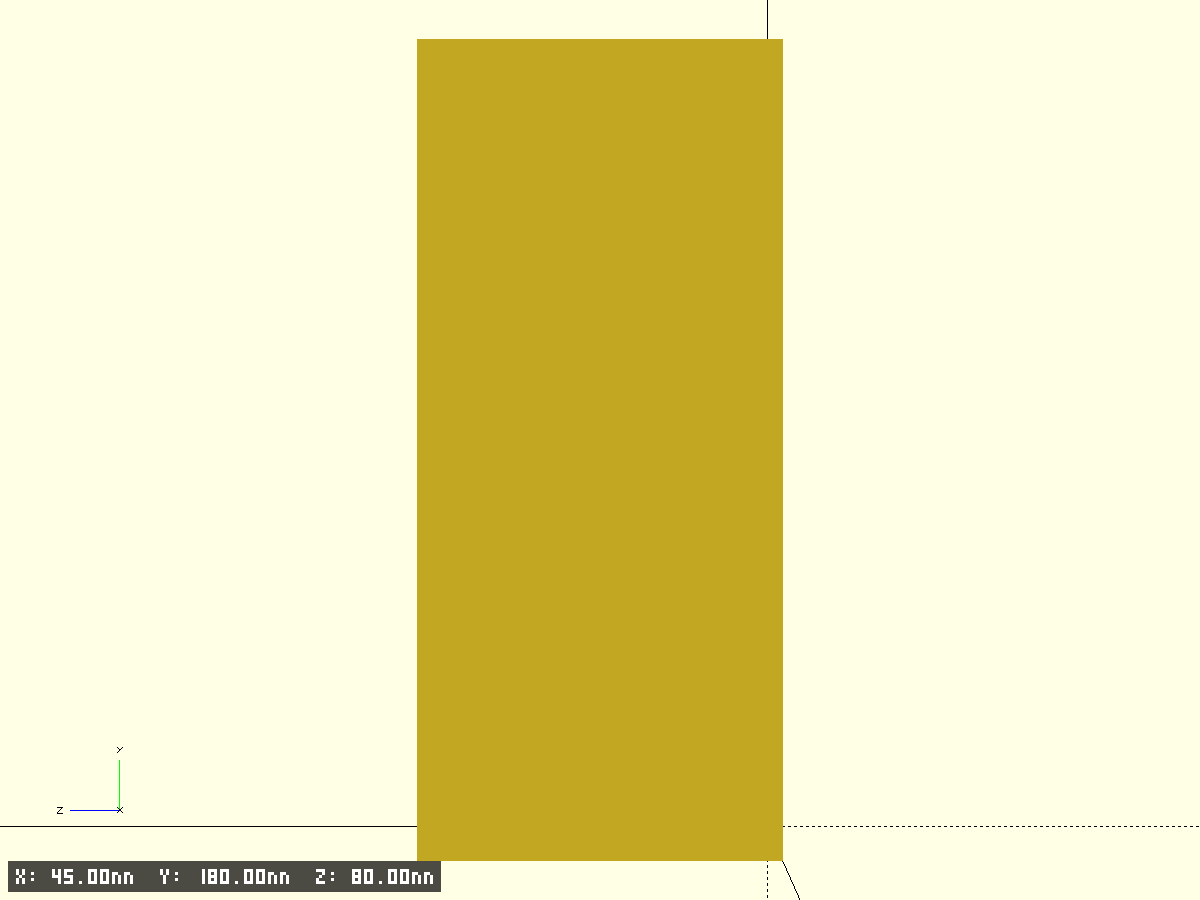
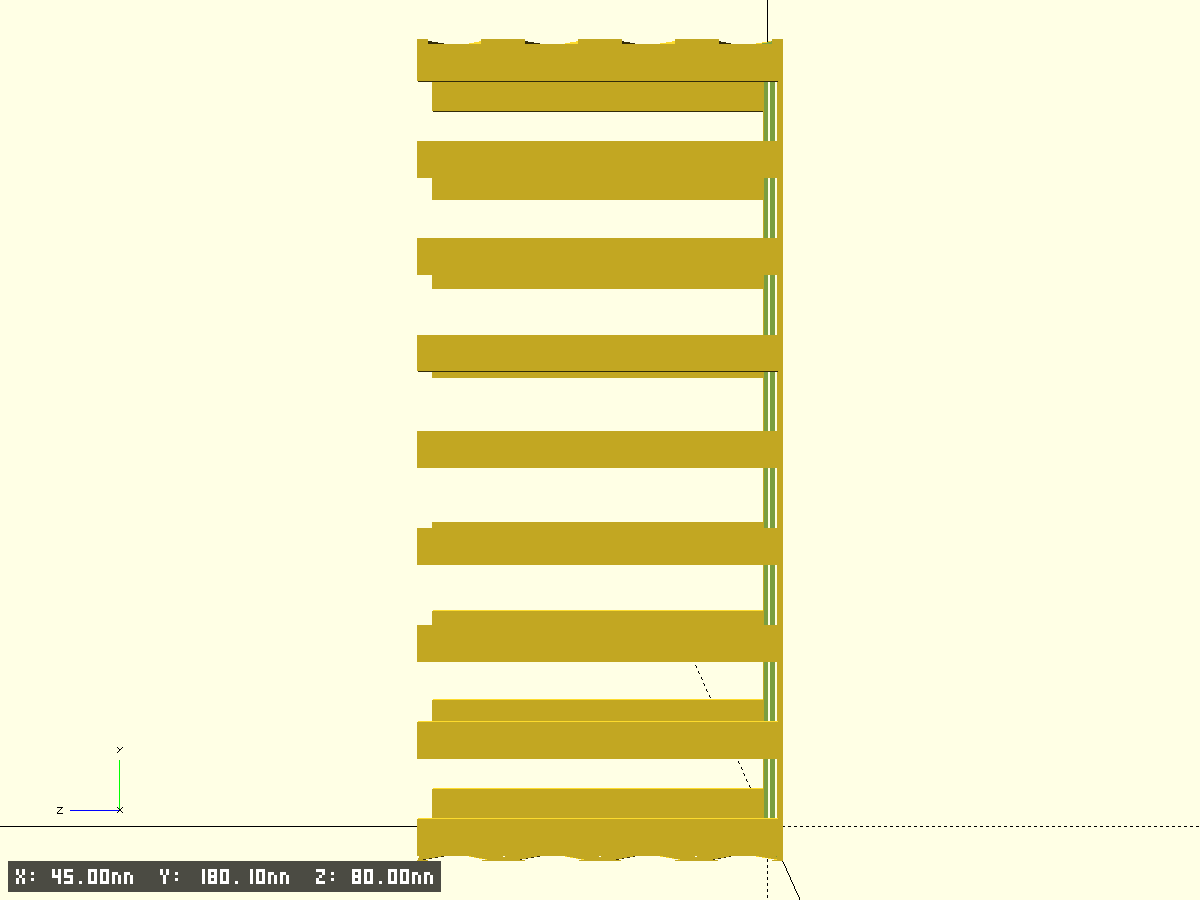
feat: add ventilation-cover, fix cap

diff --git a/models/README.md b/models/README.md
@@ -25,5 +25,6 @@
 | lid-38-400-to-funnel-20<br>2025-12-01<br>[2025-12-01-lid-dispenser](2025-12-01-lid-dispenser/)<br>[lid-38-400-to-funnel-20.scad](2025-12-01-lid-dispenser/lid-38-400-to-funnel-20.scad) | Bottle cap 38-400 with 20mm funnel and top cap for dispenser | ![iso](2025-12-01-lid-dispenser/preview.iso.png) ![xy](2025-12-01-lid-dispenser/preview.xy.png) | ![xz](2025-12-01-lid-dispenser/preview.xz.png) ![yz](2025-12-01-lid-dispenser/preview.yz.png) |
 | test-width-rings<br>2025-12-05<br>[2025-12-05-test-width-rings](2025-12-05-test-width-rings/)<br>[test-width-rings.scad](2025-12-05-test-width-rings/test-width-rings.scad) | Test rings with different wall thicknesses (1, 1.6, 2mm) for 3D printing calibration | ![iso](2025-12-05-test-width-rings/preview.iso.png) ![xy](2025-12-05-test-width-rings/preview.xy.png) | ![xz](2025-12-05-test-width-rings/preview.xz.png) ![yz](2025-12-05-test-width-rings/preview.yz.png) |
 | Horizontal Holder for 2 Bottles (75x180)<br>2025-12-16<br>[2025-12-16-caps-vertical-holder](2025-12-16-caps-vertical-holder/)<br>[caps-holder.scad](2025-12-16-caps-vertical-holder/caps-holder.scad) | Horizontal holder for 2 bottles, d=180, len=75 | ![iso](2025-12-16-caps-vertical-holder/preview.iso.png) ![xy](2025-12-16-caps-vertical-holder/preview.xy.png) | ![xz](2025-12-16-caps-vertical-holder/preview.xz.png) ![yz](2025-12-16-caps-vertical-holder/preview.yz.png) |
+| Ventilation cover (square tube with back slit)<br>2025-12-17<br>[2025-12-17-ventilation-cover](2025-12-17-ventilation-cover/)<br>[ventilation-cover.scad](2025-12-17-ventilation-cover/ventilation-cover.scad) | Ventilation cover: square tube 127x127x250, wall 0.8, back slit | ![iso](2025-12-17-ventilation-cover/preview.iso.png) ![xy](2025-12-17-ventilation-cover/preview.xy.png) | ![xz](2025-12-17-ventilation-cover/preview.xz.png) ![yz](2025-12-17-ventilation-cover/preview.yz.png) |
 | Rect shells, trays, rings and chamfers<br><br>[modules.scad](modules.scad/)<br> | Reusable base functions and modules for OpenSCAD models | — — | — — |
 | ${longName}<br><br>[template-default](template-default/)<br>[default.scad](template-default/default.scad) | ${shortDescription} | ![iso](template-default/preview.iso.png) ![xy](template-default/preview.xy.png) | ![xz](template-default/preview.xz.png) ![yz](template-default/preview.yz.png) |

diff --git a/models/2025-12-17-ventilation-cover/README.md b/models/2025-12-17-ventilation-cover/README.md
@@ -1,0 +1,32 @@
+# ventilation cover
+
+- Файл модели: `ventilation-cover.scad`
+- Версия: 1.0
+
+## Назначение
+Тонкостенный квадратный кожух вентиляции: 4 стенки (без крышек сверху/снизу), внутренний проём **127×127 мм**, высота **250 мм**.
+Задняя стенка имеет разрез по центру с зазором **0.1 мм** (параметр `back_slit_gap_mm`).
+
+## Ключевые параметры (см. начало SCAD)
+- $fn, $fa, $fs, pin_fs — точность окружностей
+- test_fragment, frag_* — тест‑фрагменты
+- edge_chamfer_*, tiny — фаски/совм.
+
+## Фрагменты модели
+- **base**: основная деталь (4 стенки) + разрез на задней стенке
+
+## Экспорт STL
+
+```bash
+openscad -o models/2025-12-17-ventilation-cover/ventilation-cover.stl models/2025-12-17-ventilation-cover/ventilation-cover.scad
+```
+
+## Превью
+
+![ventilation-cover iso](preview.iso.png)
+
+![ventilation-cover xy](preview.xy.png)
+
+![ventilation-cover xz](preview.xz.png)
+
+![ventilation-cover yz](preview.yz.png)
